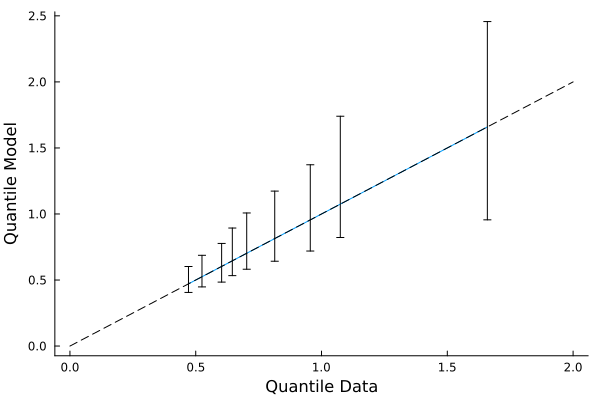
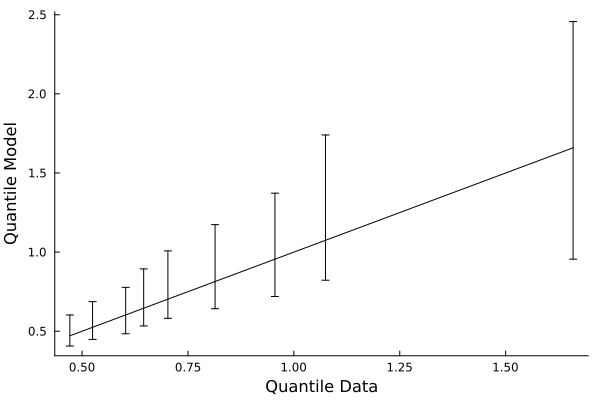
add quantile plots

diff --git a/docs/src/predictive_distributions.md b/docs/src/predictive_distributions.md
@@ -84,13 +84,8 @@ One goal of SSMs is to accurately characterize the distribution of reaction time
 ```julia 
 pred_quantiles = predict_distribution(Wald; model, func=compute_quantiles, n_samples=20)
 post_quantile_preds = generated_quantities(pred_quantiles, post_chain)
-q_preds = reduce(vcat, transpose.(post_quantile_preds))
-lb = map(c -> quantile(q_preds[:,c], .025), 1:size(q_preds,2))
-ub = map(c -> quantile(q_preds[:,c], .975), 1:size(q_preds,2))
 q_data = compute_quantiles(rts)
-plot(q_data, q_data, leg=false, grid=false, yerror=(q_data .- lb, ub .- q_data),
-    xlabel="Quantile Data", ylabel="Quantile Model")
-plot!(.0:.1:2, .0:.1:2, color=:black, linestyle=:dash)
+plot_quantiles(q_data, post_quantile_preds)
 ```
 ![](assets/wald_predictive_qq_plots.png)
 
